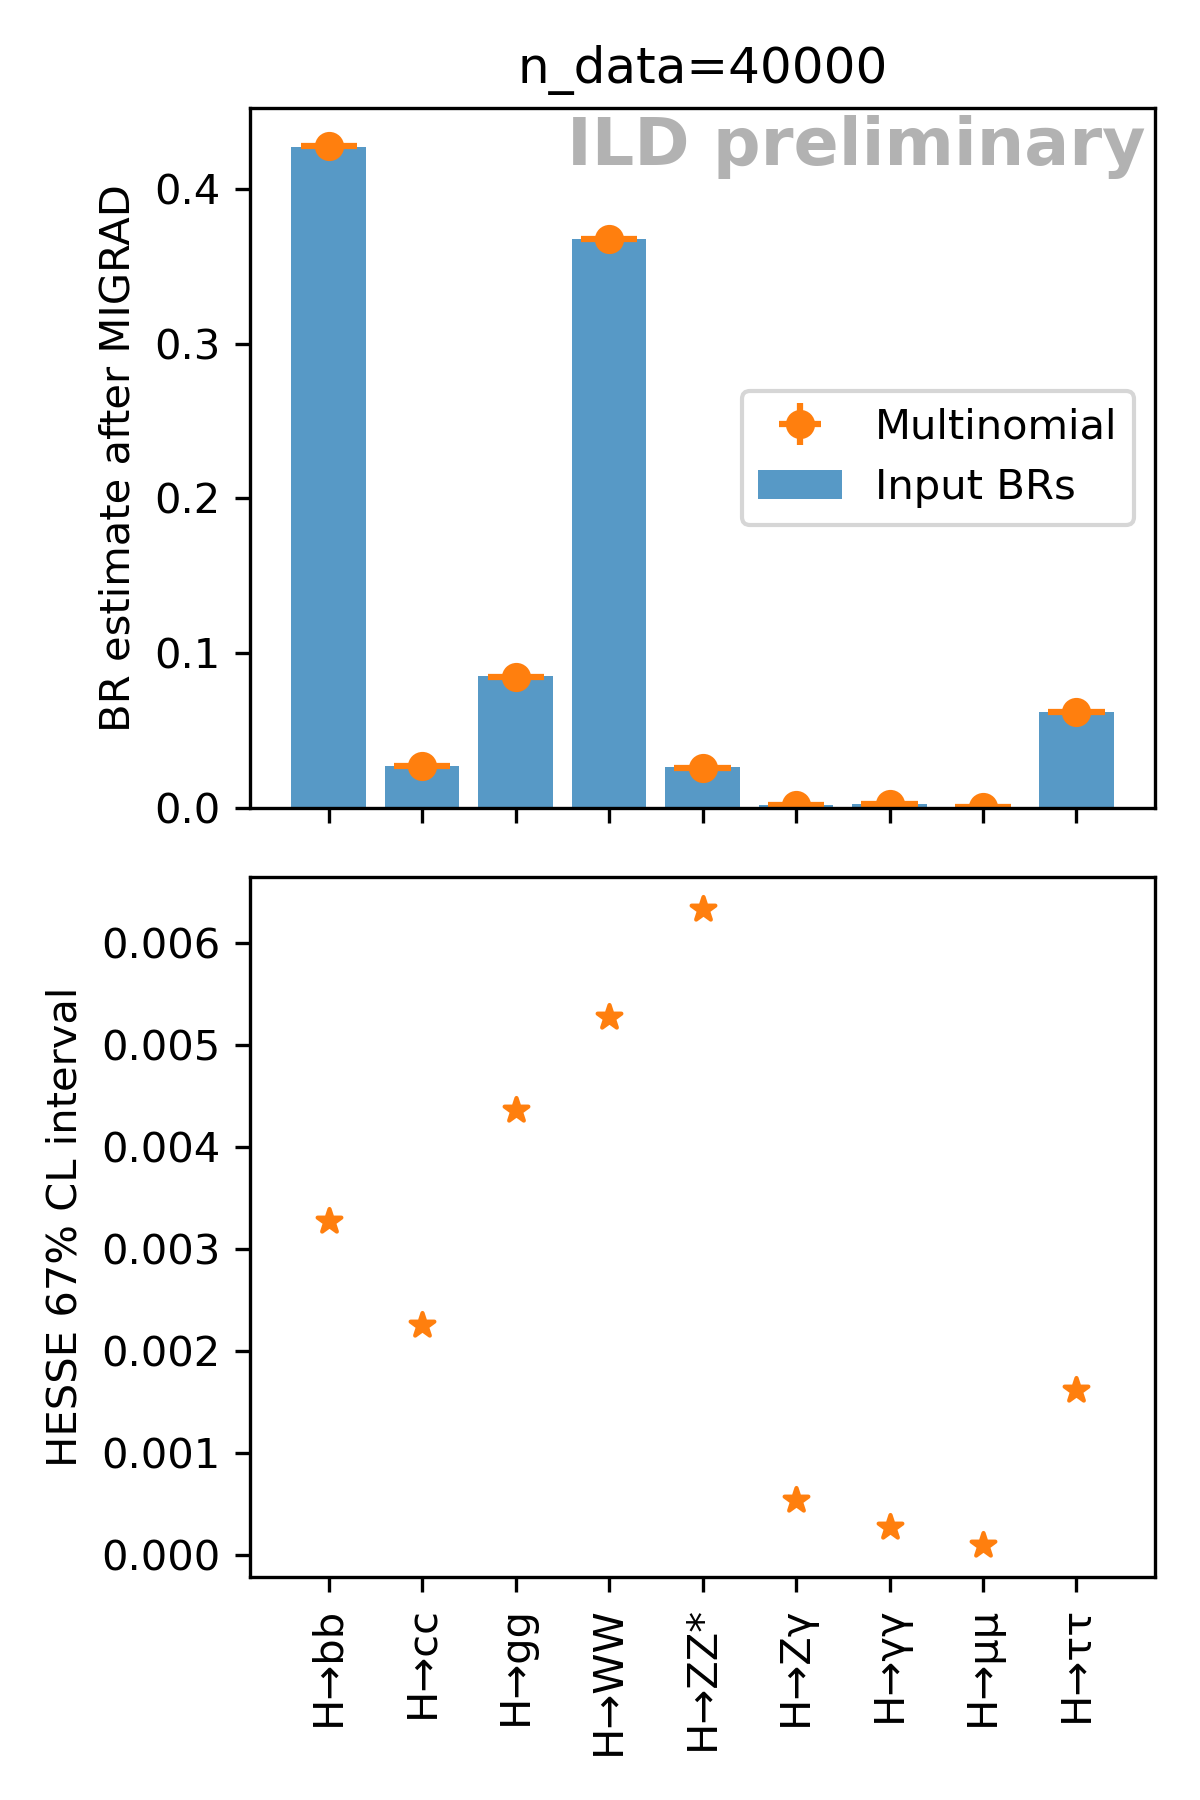
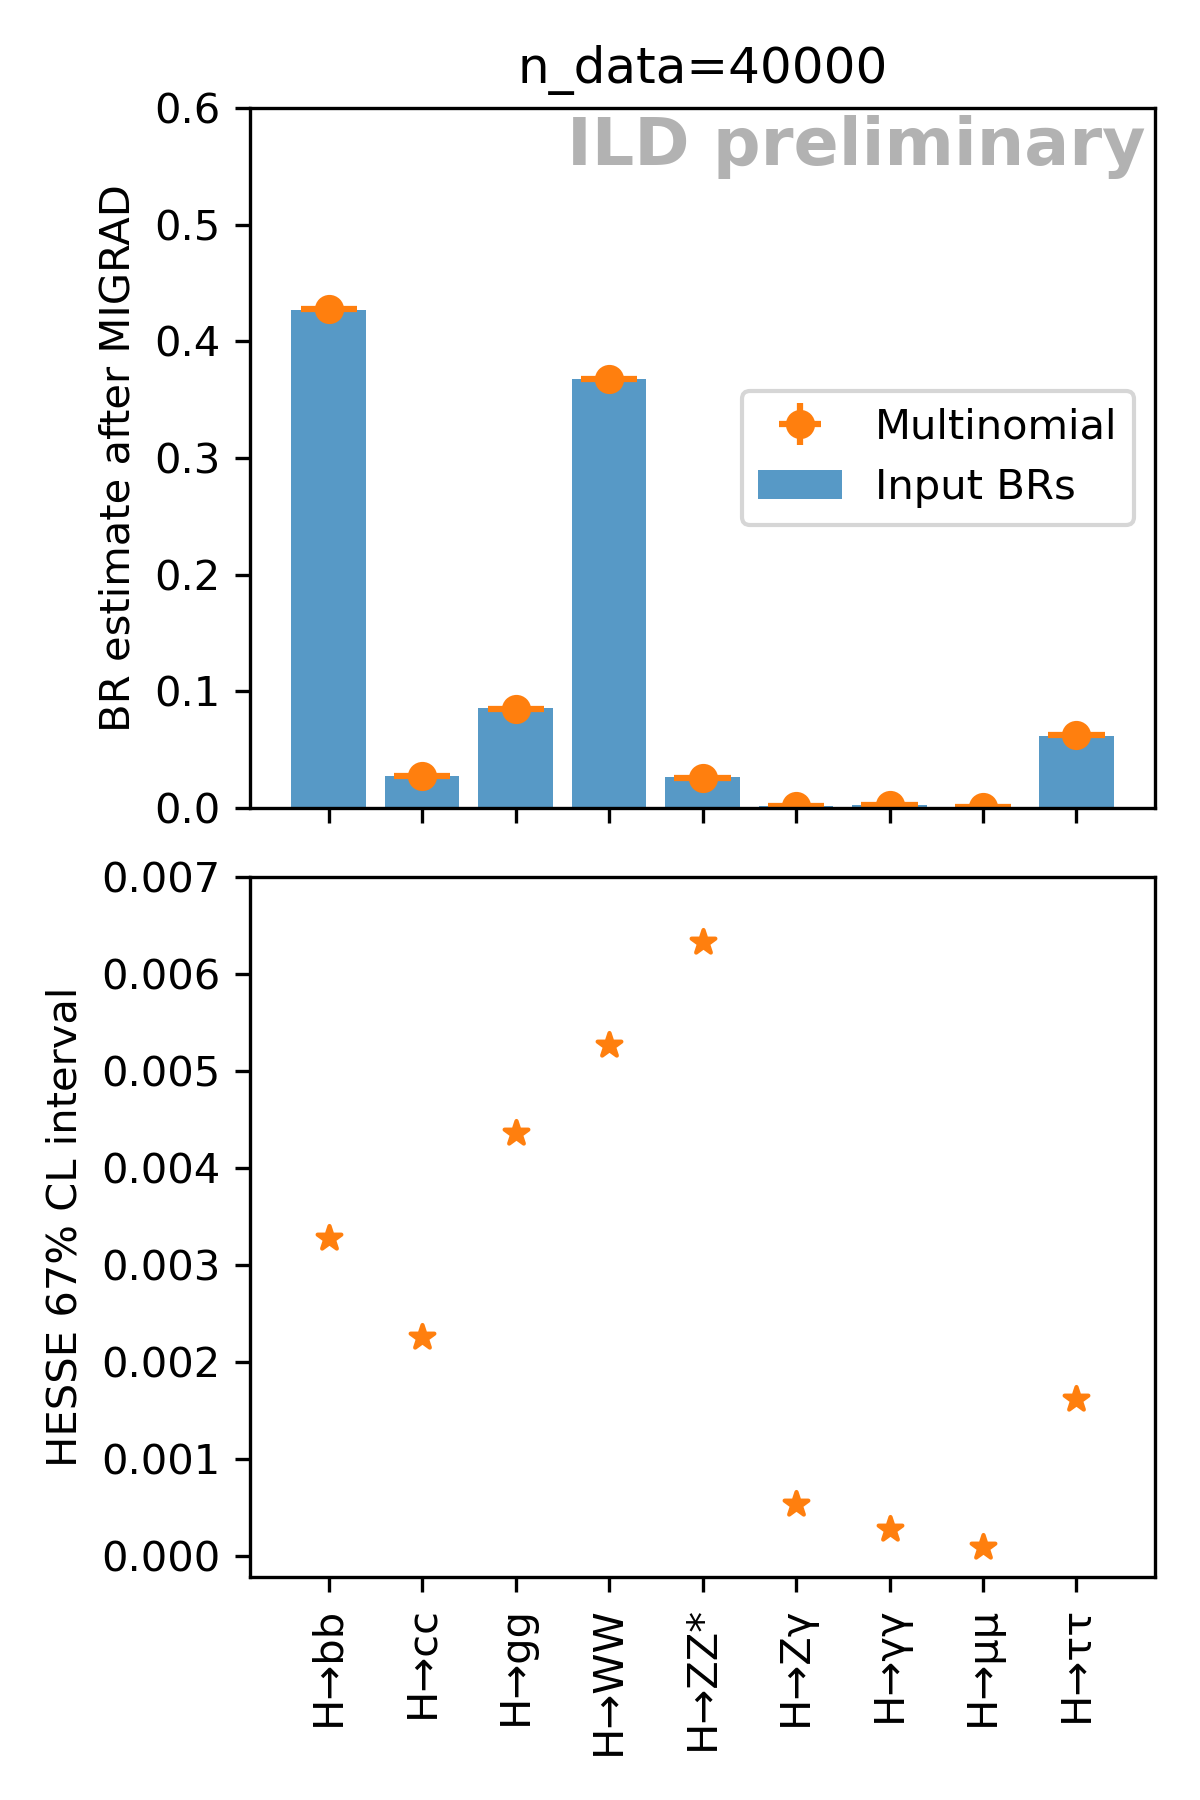
Implement most of Vincent's comments

diff --git a/proceedings.tex b/proceedings.tex
@@ -68,18 +68,18 @@ and $Z \to \mu^+ \mu^-$ ($\mu \mu H$) can be selected through
 the Z boson, independent of the Higgs decay \cite{hRecoilIndependence}.
 
 Figure~\ref{fig:toys} (left) shows how such a sample can be partitioned
-into a number of boxes with each of the box selection efficiencies depending
+into a number of classes with each of the class selection efficiencies depending
 on the specific Higgs decay mode.
-The relative frequency of the number of events per box
+The relative frequency of the number of events per class
 depends on the Higgs branching ratios.
 An inclusive estimation of all branching ratios can be obtained
-through a fit on the box counts.
-The approach naturally lends itself to an extension with additional boxes
+through a fit on the class counts.
+The approach naturally lends itself to an extension with additional classes
 which target a beyond Standard Model Higgs decay.
 Additional decay modes can thus be excluded
 with an upper limit related to the sample size.
 
-The study is realized in the context of the
+The presented study is realized in the context of the
 International Linear Detector (ILD)~\cite{ILD_DBD,ILD_IDR}.
 The ILD detector concept is proposed for the International Linear Collider (ILC).
 The detector design is based on the particle flow approach
@@ -89,10 +89,11 @@ with a center-of-mass energy of $\sqrt{s}=250~\GeV$ (ILC250)
 are considered here.
 
 The fit is in a preliminary state.
-The simulation procedure is described in section~\ref{sec:simulation}.
-This includes a summary of the
+The simulation procedure is described in section~\ref{sec:simulation},
+a summary of the
 current simplifications in~\ref{subsec:simplifications}.
-First results, with some known shortcomings, are already available.
+Preliminary results from the fit,
+with some known shortcomings, are already available.
 They are given in section~\ref{sec:fit}.
 An outline of the necessary future work is presented
 in section~\ref{sec:future_work}.
@@ -101,7 +102,7 @@ Finally, the note is summarized in section~\ref{sec:conclusion}.
 \section{Simulation}\label{sec:simulation}
 We use samples produced by the ILD concept group since 2020.
 They are obtained from a detailed simulation of the ILC250
-with the SetA beam parameters.
+with the new SetA beam parameters~\cite{ILC_Staging_2017}.
 
 The events are generated at leading order using
 WHIZARD version 2.8.5~\cite{whizard,omega}.
@@ -126,37 +127,41 @@ For each of the nine considered main branching ratios of the Higgs boson,
 at least 400k simulated events are used.
 They are separately weighted and combined into a single sample
 with exactly 40k signal Higgs events.
-Different Higgs branching ratio scenarios are set through changing the weights.
+Different Higgs branching ratio scenarios are tested by changing the weights.
 
 Note that 40k Higgs events corresponds to about 10\% of the Higgs bosons
-produced in the long-running H-20 scenario of the ILC250.
-Even before selection inefficiencies, $\mu \mu H$ and $e e H$ account for
-less than 7\% of the produced Higgs bosons.
-It is mentioned in section \ref{sec:future_work}
-that we expect to be able to leverage the $\nu \bar{\nu} H$ sample.
-Future work will have to show if the 10\% sample size
-is a good estimation of this effect.
+produced in the long-running H-20 scenario of the ILC250~\cite{ILC_Scenarios}.
+Even before taking into account selection inefficiencies
+only less than 7\% of the produced Higgs bosons
+are in the $\mu \mu H$ and $e e H$ samples combined.
+As mentioned in section \ref{sec:future_work}
+we expect to be able to leverage the $\nu \bar{\nu} H$ sample.
+Future work will have to show if a 10\% sample size
+is a good estimation of the gain from the $\nu \bar{\nu} H$ sample.
 
 \section{Branching ratio uncertainties}\label{sec:fit}
 For each Higgs decay mode, a probability vector is
 constructed from the simulation.
 This vector stores the selection efficiency and the probability
-for the events from the chosen type to fall into each of the boxes
+for the events from the chosen type to fall into each of the classes
 that are constructed within the sample.
 The vectors can be collected as columns into a probability matrix $M$.
-% The expected background counts per box have to be calculated as well.
+% The expected background counts per class have to be calculated as well.
 
-A statistically independent sample (MC2) is used in place of
-the data counts per box.
-To test the adaptability of the fit, the Higgs branching ratios in MC2
+An equivalent but statistically independent test sample (MC2) is used as an input for
+the data counts per class.
+To evaluate the adaptability of the fit, the Higgs branching ratios in MC2
 can be altered, or new decay modes can be added.
 
 A fit is then performed with \texttt{iminuit}~\cite{Minuit,iminuit}.
 It seems reasonable to take the Standard Model Higgs branching ratios
 as the starting values of the fit.
 Based on a multinomial log-likelihood as its cost function,
-a prediction for the branching ratios and the corresponding covariance matrix
-are obtained.
+the 9 considered independent branching ratios of the Higgs boson
+are described through 8 parameters in the fit.
+We obtain a prediction for the 8 parameters
+and the corresponding covariance matrix.
+From those we get the mean values and uncertainties for the branching ratios.
 
 The result of this fit is shown in figure~\ref{fig:brs} for
 the SM branching ratios and an alternative scenario.
@@ -168,7 +173,7 @@ The uncertainties and correlations of the fit on the expected event counts
 are obtained through the second derivatives of the likelihood function
 at the fit optimum.
 For the toy study, samples are drawn from a Multinomial centered on the
-expected counts for each box.
+expected counts for each class.
 Then, a fit is performed for each of the samples, and the predicted
 branching ratio optima are collected.
 An example toy study on the $H \to b \bar{b}$ branching ratio is shown in
@@ -186,8 +191,8 @@ outlined in section~\ref{subsec:simplifications}.
     \includegraphics[width=0.49\textwidth, keepaspectratio]{intro_category_counts}
     \includegraphics[width=0.49\textwidth, keepaspectratio]{H_bb}
     \caption{
-        Left: Expected contributions per box from each of the Higgs decay modes.
-        The relative sizes assume the Standard Model branching ratios.
+        Left: Expected contributions per class from each of the Higgs decay modes
+        assuming the Standard Model branching ratios.
         \\
         Right: Validation of the uncertainty from
         a fit on the expected event counts scenario against a toy study.
@@ -210,12 +215,12 @@ outlined in section~\ref{subsec:simplifications}.
     \includegraphics[width=0.49\textwidth, keepaspectratio]{br_estimates}
     \includegraphics[width=0.49\textwidth, keepaspectratio]{changed_br_estimates}
     \caption{
-        Top row: Branching ratios assumed for the generation of the counts per box.
+        Top row: Branching ratios assumed for the generation of the counts per class.
         Fit optimum and its uncertainty as orange error bars.
         The starting values of the fit are
         the SM Higgs branching ratios for both cases.
         \\
-        Bottom row: The absolute fit uncertainties per parameter.
+        Bottom row: The absolute statistical fit uncertainties per branching ratio.
         \\
         Left: SM branching ratios.
         \\
@@ -230,7 +235,7 @@ outlined in section~\ref{subsec:simplifications}.
     \centering
     \begin{tabular}{lrrr}
         \toprule
-        {} &  SM BR &  minimum &  $\sigma$ \\
+        {} &  SM BR &  fitted BR &  $\sigma_{\tn{stat}}$ \\
         \midrule
         $H\to cc$           &  2.718 &    2.733 &     0.210 \\
         $H\to bb$           & 57.720 &   57.743 &     0.321 \\
@@ -245,7 +250,7 @@ outlined in section~\ref{subsec:simplifications}.
         \end{tabular}
     \caption{
         Preliminary results of an \texttt{MINUIT} fit on the expected event counts.
-        In \%.
+        All numbers in \%. \\
         The many simplifications that go into these numbers
         are explained in the main text.
         }\label{tab:br_uncertainties}
@@ -274,16 +279,16 @@ sample should help decrease the uncertainties.
 The $\nu \nu H$ sample should be added to the combined fit,
 after choosing a good pre-selection.
 
-The current boxes are far from ideal.
-The rest box should be reserved almost exclusively for
+The current classes are far from ideal.
+The rest class should be reserved almost exclusively for
 background (or unexpected Higgs decay) events.
 For some of the Higgs decays, including $H \to W^+ W^-$,
-no proper boxes are designed yet.
+no proper classes are designed yet.
 
 A mechanism that alerts the analyzer in the case of non-SM Higgs decays
 ($H \to \mu^+\tau^-, H \to b\bar{c}$, \ldots)
 has to be established.
-This could be through one or more additional boxes,
+This could be through one or more additional classes,
 or through a comparison of the value of the likelihood at the fit minimum
 with the expected value.
 
@@ -331,6 +336,11 @@ Federation and the Open Science GRID.
     ``The Calorimetry at the future e+ e- linear collider'',
     \href{https://arxiv.org/abs/hep-ex/0202004}{arXiv:hep-ex/0202004} (2002).
   }
+  \bibitem{ILC_Staging_2017}{
+    L.~Evans, S.~Michizono,
+    ``The International Linear Collider Machine Staging Report 2017'',
+    \href{https://arxiv.org/abs/1711.00568}{arXiv:1711.00568} (2017).
+  }
   \bibitem{whizard}{
     W.~Kilian, T.~Ohl, J.~Reuter,
     ``WHIZARD: Simulating Multi-Particle Processes at LHC and ILC'',
@@ -368,6 +378,11 @@ Federation and the Open Science GRID.
     T.~Suehara, T.~Tanabe,
     ``LCFIPlus: A Framework for Jet Analysis in Linear Collider Studies'',
     \href{https://arxiv.org/abs/1506.08371}{Nucl. Instrum. Meth. A808 109–116} (2016).
+  }
+  \bibitem{ILC_Scenarios}{
+    T.~Barklow et. al.,
+    ``ILC Operating Scenarios'',
+    \href{https://arxiv.org/abs/1506.07830}{arXiv:1506.07830} (2015).
   }
   \bibitem{Minuit}{
     F.~Fames, M.~Roos,

diff --git a/plot_factory/proceedings_vincent.py b/plot_factory/proceedings_vincent.py
@@ -1,0 +1,63 @@
+"""Create the plot type that Vincent prefers.
+"""
+import matplotlib.pyplot as plt
+import numpy as np
+from pathlib import Path
+
+from changed_brs import changed_brs
+import fitting_util.fit_setups as fs
+from fitting_util.ild import ild_tag
+from fitting_util.prepare import prepare_data, get_val_and_err, shift_x
+from fit_plots import br_estimates_plot
+from load_data import load_data, default_brs
+from paths import FIG_PATH, N_DATA
+from toys import uncertainty_toy_study
+
+
+def vincent_plot(m, data, n_data):
+    m_dict, br_idx, param_names, ordered_X0 = prepare_data(m, data)
+    fig, ax = plt.subplots(figsize=(4, 3))
+    ild_tag(ax)
+    for i, (m_name, mm) in enumerate(m_dict.items()):
+        x = shift_x(i, br_idx, len(m_dict))
+        y, y_err = get_val_and_err(mm, param_names, m_name)
+        ax.errorbar(x, y / ordered_X0, yerr=y_err / ordered_X0, xerr=.3,
+            barsabove=True,
+            fmt=".", label=m_name, color=f"C{i+1}")
+    ax.axhline(1, color="grey", ls=":")
+    ax.set_ylabel("reconstructed / input")
+    ax.set_xticks(br_idx)
+    ax.set_xticklabels(param_names, rotation=90)
+    ax.set_ylim((1 - 0.4, 1 + 0.4))
+    fig.tight_layout()
+    return fig
+
+
+def ylim_adjusted_br_estimates_plot(m, data, n_data):
+    fig = br_estimates_plot(m, data, n_data)
+    fig.get_axes()[0].set_ylim((None, 0.6))
+    fig.get_axes()[1].set_ylim((None, 0.007))
+    return fig
+
+
+def main():
+    folder = FIG_PATH.parents[1] / "img_proceedings"
+    folder.mkdir(exist_ok=True)
+    for brs, prefix in [(None, ""), (changed_brs, "changed_")]:
+        data = load_data(
+            data_str=str(Path(__file__).parent / "data/overlay_free_higher_stats"),
+            brs=brs,
+        )
+        m = {"Multinomial": fs.binomial_minimization_with_limits(data, N_DATA)[0]}
+        fig = ylim_adjusted_br_estimates_plot(m, data, N_DATA)
+        fig.savefig(folder / f"{prefix}br_estimates.png")
+
+        fig = vincent_plot(m, data, N_DATA)
+        fig.savefig(folder / f"{prefix}vincent_plot.png")
+
+
+
+
+
+if __name__ == "__main__":
+    main()

diff --git a/plot_factory/all_plots.py b/plot_factory/all_plots.py
@@ -3,6 +3,7 @@ import fit_plots
 import introduction
 import matrix_plots
 import motivate_categories
+import proceedings_vincent
 import toys
 
 
@@ -12,4 +13,5 @@ if __name__ == "__main__":
     introduction.main()
     matrix_plots.main()
     motivate_categories.main()
+    proceedings_vincent.main()
     toys.main()
